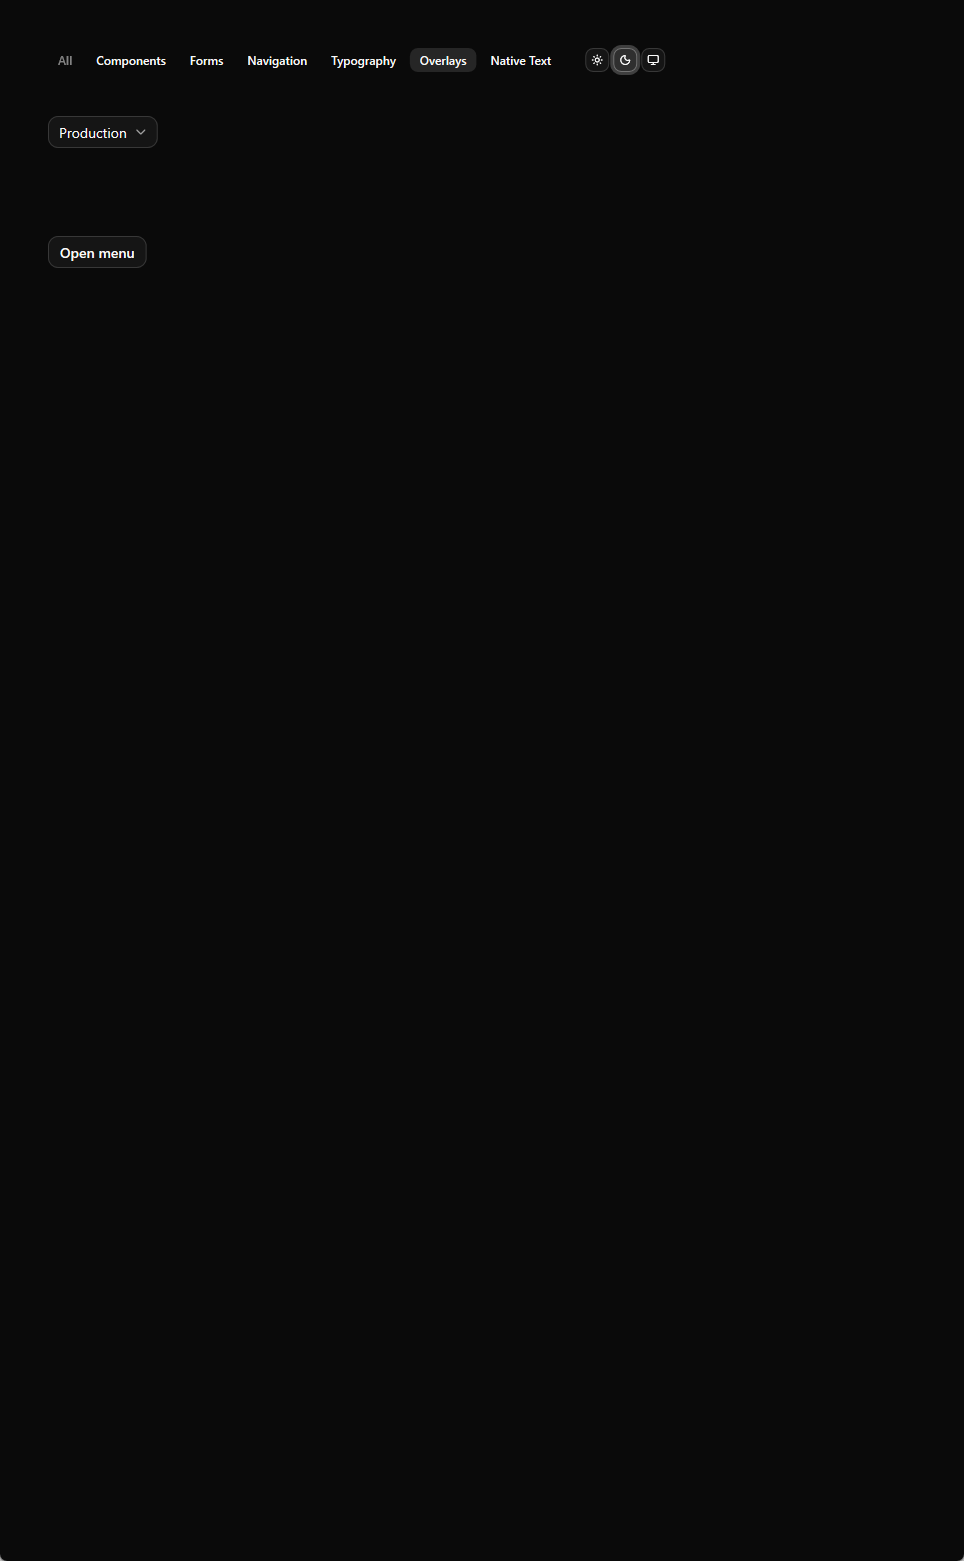
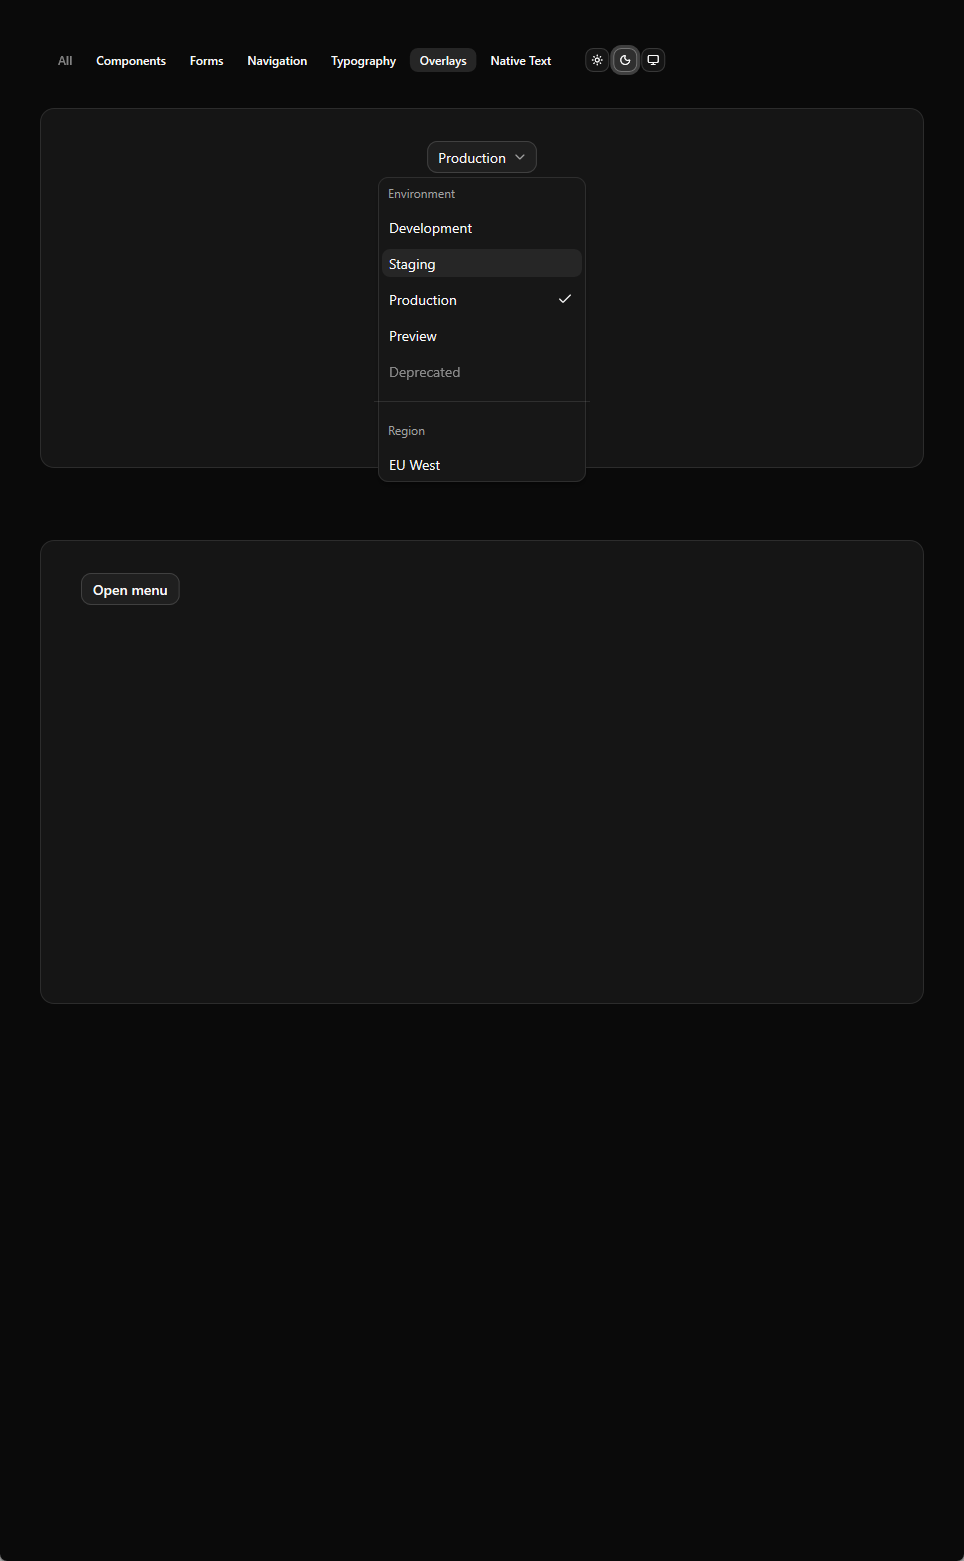
Slice-3 evidence correction: dark overlays fullpage + README notes
- fullpages/dark/overlays.png: replace stale pre-overlay-stage capture
  with the verified current-geometry file (was stranded at the flat-name
  path by the earlier PowerShell path-collapse); flat artifacts removed
- README: correct candidate SHA to 79816a4; document explicit theme
  selection, topmost-popup dismiss ordering in overlays captures, and
  the stage-box element bounds

Generated with [Devin](https://devin.ai)

diff --git a/benchmark/results/shadcn-native-gallery-slice3/README.md b/benchmark/results/shadcn-native-gallery-slice3/README.md
@@ -1,6 +1,6 @@
 # Shadcn Native Gallery — Slice 3 evidence
 
-Production code candidate: **`b14c79a`** on `agent/shadcn-native-gallery-slice3-opus55` (base `4e38097`).
+Production code candidate: **`79816a4`** on `agent/shadcn-native-gallery-slice3-opus55` (base `4e38097`); evidence/docs corrections on `main` (`5e3261c`+).
 Frozen reference: `reference/shadcn-gallery-v0.1/` @ `2e14e417a69ef8967b8fb17120282e3de6449fae` (unmodified).
 Capture host: native Windows 11 VM, scale_factor 1.0, WGC (`Windows.Graphics.Capture`), `stable_retained_scene` verified per shot.
 
@@ -8,8 +8,14 @@ Slice 3 ships: **Tabs** (default + line), **Select** (combobox + listbox popup),
 
 ## Layout
 
-- `visual/fullpages/{light,dark}/` — full client captures per page (`components`, `forms`, `navigation`, `typography`, `overlays`, `native-text`). Staged via `RUI_GALLERY_PAGE=<page>`; dark via `shell.theme.dark` click.
+- `visual/fullpages/{light,dark}/` — full client captures per page (`components`, `forms`, `navigation`, `typography`, `overlays`, `native-text`). Staged via `RUI_GALLERY_PAGE=<page>`; theme via explicit `shell.theme.{light,dark}` click each cycle.
 - `visual/states/{light,dark}/` — element crops: `tabs.default.active`, `tabs.line.active`, `settings-nav.expanded`, `settings-nav.collapsed` (via `RUI_SETTINGS_NAV_COLLAPSED=1`), `select.open`, `dropdown-menu.open`, `button.default`, `card.default`.
+
+## Capture notes
+
+- **Theme selection is explicit**: every cycle clicks `shell.theme.light` or `shell.theme.dark` after launch — the app boots `ThemeMode::System` (OS dark on this host), so a capture with no theme click yields dark pixels regardless of the output directory.
+- **Overlays page popup ordering**: both specimens boot `open: true`; the theme click is an outside press that dismisses only the *topmost* light-dismiss popup (the menu, staged last) — the select listbox legitimately remains open in `overlays` fullpages and `select.open`. `dropdown-menu.open` re-clicks the trigger after the theme click to restore the open menu.
+- `select.open`/`dropdown-menu.open` crops are the `.overlay-stage` panel bounds (r14, `bg-muted/40`, 1dp `fg/10` ring, fixed 360/464 height) — element = stage box per the frozen contract.
 - `interaction/devctl-slice3-verify.txt` — scripted `rust-ui-devctl` run: semantic ids, `expanded`/`selected`/`checked`/`focused`/`enabled` fields, Escape topmost dismissal, focus-on-open into content, arrow nav, Enter pick → close+value+focus restore, outside-press dismiss + restore.
 - `resize-sanity/` — 3× `resize`+`wait-idle` cycles (800/1200/960 wide) = 130 ms wall total incl. RPC; `resized-960.png` + `.capture.json`.
 - `*.capture.json` — devctl capture metadata (backend, client crop, scale).
